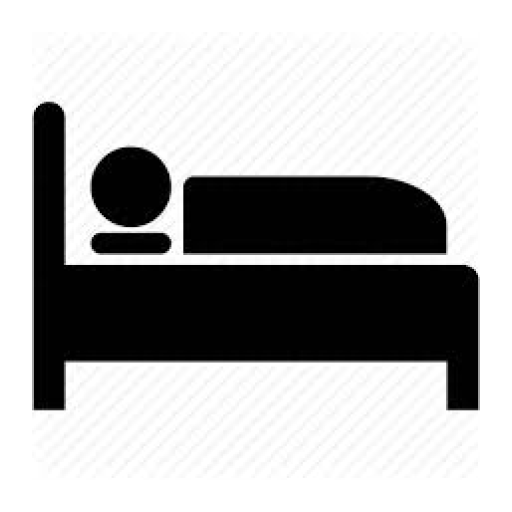
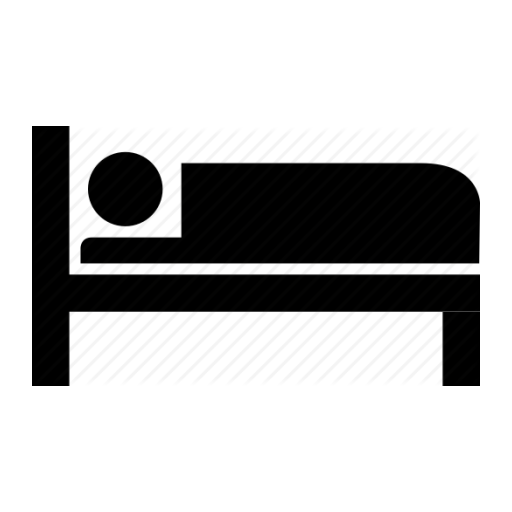
updated bed image

Changed region(s): [[0.0625, 0.1875, 0.9375, 0.8125]]

diff --git a/app/src/main/java/com/myroommate/myroommate/RVAdapter4.java b/app/src/main/java/com/myroommate/myroommate/RVAdapter4.java
@@ -1,47 +1,16 @@
 package com.myroommate.myroommate;
 
 import android.annotation.SuppressLint;
-import android.content.Context;
-import android.graphics.drawable.Drawable;
-import android.support.annotation.DrawableRes;
-import android.support.annotation.NonNull;
-import android.support.design.widget.Snackbar;
-import android.support.v4.app.Fragment;
-import android.support.v4.app.FragmentTransaction;
-import android.support.v7.widget.CardView;
+import android.graphics.Color;
 import android.support.v7.widget.RecyclerView;
 import android.view.LayoutInflater;
 import android.view.View;
 import android.view.ViewGroup;
-import android.widget.CheckedTextView;
-import android.widget.EditText;
 import android.widget.ImageView;
-import android.widget.LinearLayout;
 import android.widget.TextView;
-import android.R.drawable;
-import static android.R.color;
 
-import com.android.volley.AuthFailureError;
-import com.android.volley.Request;
-import com.android.volley.RequestQueue;
-import com.android.volley.Response;
-import com.android.volley.VolleyError;
-import com.android.volley.VolleyLog;
-import com.android.volley.toolbox.StringRequest;
-import com.android.volley.toolbox.Volley;
-
-import org.json.JSONArray;
-import org.json.JSONException;
-import org.json.JSONObject;
-
-import java.lang.reflect.Array;
 import java.util.ArrayList;
-import java.util.Collection;
-import java.util.HashMap;
-import java.util.Iterator;
 import java.util.List;
-import java.util.ListIterator;
-import java.util.Map;
 
 
 /**
@@ -113,12 +82,12 @@ public class RVAdapter4 extends RecyclerView.Adapter<RVAdapter4.BedImageHolder> 
 
                     if (bedImageHolder.isClicked == 1) {
 
-                        bedImageHolder.bedImage.setImageResource(R.mipmap.bed_icon);
+                        bedImageHolder.bedImage.setBackgroundColor(Color.TRANSPARENT);
                         bedImageHolder.isClicked = 0;
 
                     } else {
 
-                        bedImageHolder.bedImage.setImageResource(R.mipmap.bed_icon_grey);
+                        bedImageHolder.bedImage.setBackgroundColor(R.color.colorAccent);
                         bedImageHolder.isClicked = 1;
                     }
                 }
